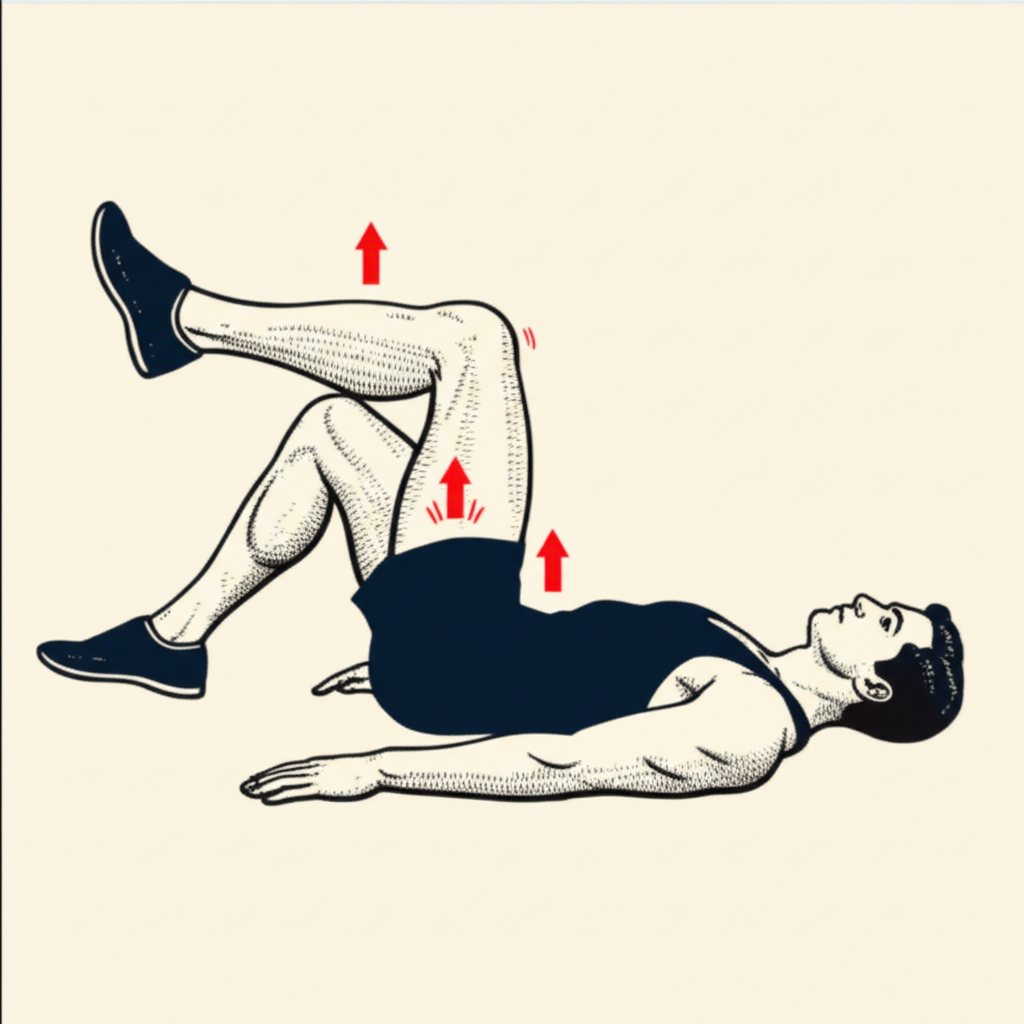
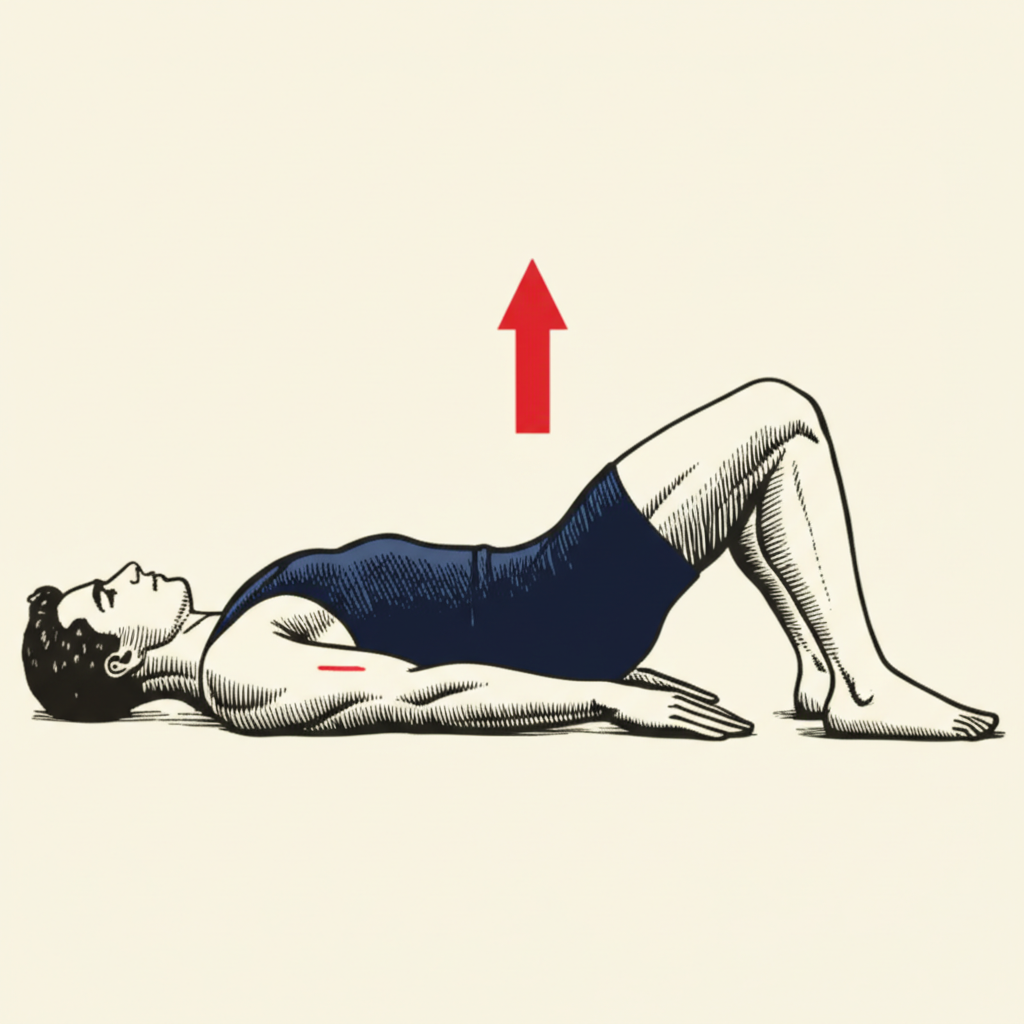
Fix McGill Curl-Up and Glute Bridge illustrations
- McGill Curl-Up: Now correctly shows one bent knee (foot flat) and one straight leg
- Glute Bridge: Now correctly shows feet on floor with hips lifted (not a leg raise)
- Simplified prompt descriptions for better AI model comprehension

Changed region(s): [[0.0, 0.1875, 1.0, 0.8125], [0.7188, 0.3438, 0.7812, 0.375]]

diff --git a/scripts/generate-exercise-images.ts b/scripts/generate-exercise-images.ts
@@ -72,38 +72,27 @@ const EXERCISES: ExerciseIllustration[] = [
     id: 'mcgill-curl-up',
     name: 'McGill Curl-Up',
     modelGender: 'male',
-    formDescription: `CAMERA ANGLE: Side view (profile), looking at the person from their right side.
+    formDescription: `Side profile view of a man doing a McGill curl-up exercise.
 
-BODY POSITION - BE EXTREMELY PRECISE:
-- Person lying flat on their BACK on the ground (supine position)
-- Head is on the LEFT side of the image, feet on the RIGHT side
+The man lies on his back. His head is on the left, feet on the right.
 
-LEFT LEG (closer to head):
-- Knee is BENT at approximately 90 degrees
-- Foot is FLAT on the ground
-- Thigh is angled upward, lower leg is vertical
+LEG POSITIONS - ASYMMETRICAL:
+- His LEFT leg: knee bent, foot flat on floor (like sitting in a chair while lying down)
+- His RIGHT leg: completely straight, lying flat on the floor from hip to heel
 
-RIGHT LEG (closer to feet in image):
-- Leg is COMPLETELY STRAIGHT and FLAT on the ground
-- Knee is NOT bent at all
-- The entire leg from hip to heel touches the ground
+HAND POSITION:
+- Both hands are tucked underneath his lower back, palms down
+- His lower back has a slight arch with hands filling that space
+- His elbows point outward and rest on the floor
 
-HANDS AND ARMS:
-- BOTH hands are tucked UNDER the lower back (lumbar region)
-- Palms facing down, supporting the natural curve of the spine
-- Elbows are out to the sides, resting on the ground
+HEAD POSITION:
+- His head and shoulder blades are raised just 1-2 inches off the ground
+- Looking straight up at the ceiling
+- Small movement, not a full sit-up
 
-HEAD AND SHOULDERS:
-- Head and shoulder blades are lifted ONLY 1-2 inches off the ground
-- This is NOT a sit-up - the lift is very small
-- Chin is slightly tucked toward chest
-- Eyes looking toward the ceiling
+The KEY visual is the asymmetry: one bent knee with foot on floor, one straight leg flat.
 
-ARROWS:
-- One small red arrow pointing UPWARD from the upper back/shoulders showing the small lift
-- The arrow should be small to indicate this is a minimal movement
-
-CRITICAL: One leg bent (foot flat), one leg straight (flat on ground). Hands under lower back. Tiny lift of head/shoulders only.`,
+Vintage pen-and-ink style, crosshatching, navy shorts, cream background. Red arrow pointing up at shoulders.`,
   },
   {
     id: 'mcgill-side-plank',
@@ -729,53 +718,21 @@ CRITICAL: Hands on hips. Hips move in a circle. Upper body and feet stay stable.
     id: 'glute-bridge-warmup',
     name: 'Glute Bridge',
     modelGender: 'male',
-    formDescription: `CAMERA ANGLE: Side view (profile), looking at person from their right side.
+    formDescription: `Illustration of a hip thrust / bridge exercise from a side view.
 
-BODY POSITION - TOP OF GLUTE BRIDGE:
-- Person is lying on their BACK with hips LIFTED (bridge position)
-- This is the TOP of the movement where hips are raised
+The man's body makes a BRIDGE or RAMP shape:
+- HEAD and SHOULDERS rest on the floor
+- HIPS are thrust UP HIGH (the peak of the bridge)
+- KNEES are bent at 90 degrees
+- FEET are FLAT on the floor
 
-POSITION ON GROUND:
-- Upper back and shoulders remain on the ground
-- Head is on the ground, looking up at ceiling
-- ARMS are flat on the ground at sides, palms DOWN
+CRITICAL: The man's feet must be on the ground. Both soles of his feet touch the floor. His knees point toward the ceiling. His hips are the highest point.
 
-FEET AND LOWER LEGS:
-- BOTH feet are flat on the ground
-- Feet are hip-width apart
-- Feet are positioned close to the buttocks (heels near butt)
-- Knees are bent at approximately 90 degrees
-- Knees point toward ceiling
+The silhouette looks like a triangle: floor to shoulders (low), up to hips (high), down to knees (medium), feet on floor.
 
-HIPS - THE KEY ELEMENT:
-- Hips are LIFTED HIGH off the ground
-- There is a straight line from SHOULDERS to KNEES
-- The body forms a "bridge" or ramp shape
-- Hips are at the highest point of this line
+DO NOT show legs in the air. DO NOT show a leg raise. The feet MUST be on the ground.
 
-GLUTES:
-- Glutes (buttocks) are SQUEEZED HARD at the top
-- This is the main muscle being activated
-- Maximum glute contraction
-
-CORE:
-- Core is engaged to maintain straight body line
-- No sagging or arching in the lower back
-
-WHAT'S ON THE GROUND:
-- Head, shoulders, upper back
-- Arms at sides
-- Both feet
-
-WHAT'S LIFTED:
-- Lower back, hips, and thighs
-
-ARROWS:
-- Red arrow pointing UP at the hips showing the LIFT direction
-- Arrow at glutes showing SQUEEZE/contraction
-- Small arrows at heels showing weight pressing through heels
-
-CRITICAL: Lying on back, knees bent, feet flat on floor. HIPS are LIFTED creating a straight line from shoulders to knees. This is NOT a leg raise - both feet stay on the ground, the hips lift UP.`,
+Vintage pen-and-ink illustration style. Navy shorts. Cream background. Red upward arrow at hips.`,
   },
 ];
 
